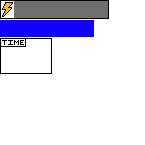
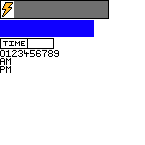
working time ui box

Changed region(s): [[0.0, 0.2483, 0.4138, 0.5241]]

diff --git a/core/src/com/tecchtitans/eng1/systems/UIRenderSystem.java b/core/src/com/tecchtitans/eng1/systems/UIRenderSystem.java
@@ -26,14 +26,13 @@ public class UIRenderSystem extends EntitySystem {
             UIComponent uiComponent = ComponentMappers.ui.get(entity);
             TextureComponent textureComponent = ComponentMappers.texture.get(entity);
             PositionComponent positionComponent = ComponentMappers.position.get(entity);
+            Texture texture = textureComponent.texture;
+
+            int renderWidth = textureComponent.width;
+            int renderHeight = textureComponent.height;
 
             if (uiComponent.type == UIComponentType.STATBAR) {
                 StatBarComponent statBarComponent = ComponentMappers.statBar.get(entity);
-
-                Texture texture = textureComponent.texture;
-                int renderWidth = textureComponent.width;
-                int renderHeight = textureComponent.height;
-
                 /*
                 float outerWidthRatio = renderWidth / (float)statBarComponent.outerPartSrcWidth;
                 float outerHeightRatio = renderHeight / (float)statBarComponent.outerPartSrcHeight;
@@ -89,6 +88,78 @@ public class UIRenderSystem extends EntitySystem {
 
                 // Draw inner bar
                 batch.draw(texture, renderLocationX + innerXOffset, renderLocationY + innerYOffset, innerRenderWidth, innerRenderHeight, innerSrcX, innerSrcY, innerSrcWidth, innerSrcHeight, false, false);
+            } else if (uiComponent.type == UIComponentType.TIME) {
+                UITimeComponent uiTimeComponent = ComponentMappers.time.get(entity);
+
+                int renderLocationX = (int)positionComponent.positionVector.x;
+                int renderLocationY = (int)positionComponent.positionVector.y;
+
+                int outerSrcX = uiTimeComponent.outerPartSrcX;
+                int outerSrcY = uiTimeComponent.outerPartSrcY;
+
+                int outerSrcWidth = uiTimeComponent.outerPartSrcWidth;
+                int outerSrcHeight = uiTimeComponent.outerPartSrcHeight;
+
+                // Draw outer part of bar.
+                batch.draw(texture, renderLocationX, renderLocationY, renderWidth, renderHeight, outerSrcX, outerSrcY, outerSrcWidth, outerSrcHeight, false, false);
+
+                int currentHour = uiTimeComponent.currentHour;
+                int hourFirstNum = currentHour / 10;
+                int hourSecondNum = currentHour % 10;
+
+                float totalWidthRatio = textureComponent.width / (float)outerSrcWidth;
+                float totalHeightRatio = textureComponent.height / (float)outerSrcHeight;
+
+                int numbersSrcWidth = uiTimeComponent.numbersSrcWidth;
+                int numbersSrcHeight = uiTimeComponent.numbersSrcHeight;
+
+                int firstNumberSrcX = uiTimeComponent.numbersSrcX + ((numbersSrcWidth + 1) * hourFirstNum);
+                int firstNumberSrcY = uiTimeComponent.numbersSrcY;
+
+                int numbersXOffset = Math.round(uiTimeComponent.numbersXOffset * totalWidthRatio);
+                int numbersYOffset = Math.round(uiTimeComponent.numbersYOffset * totalHeightRatio);
+
+                int numberRenderWidth = Math.round(numbersSrcWidth * totalWidthRatio);
+                int numberRenderHeight = Math.round(numbersSrcHeight * totalHeightRatio);
+
+                // Draw first number
+                batch.draw(texture, renderLocationX + numbersXOffset, renderLocationY + numbersYOffset, numberRenderWidth, numberRenderHeight, firstNumberSrcX, firstNumberSrcY, numbersSrcWidth, numbersSrcHeight, false, false);
+
+                int secondNumberSrcX = uiTimeComponent.numbersSrcX + ((numbersSrcWidth + 1) * hourSecondNum);
+                int secondNumberSrcY = uiTimeComponent.numbersSrcY;
+
+                int secondNumberXOffset = Math.round((uiTimeComponent.numbersXOffset + numbersSrcWidth + 1) * totalWidthRatio);
+
+                // Draw second number
+                batch.draw(texture, renderLocationX + secondNumberXOffset, renderLocationY + numbersYOffset, numberRenderWidth, numberRenderHeight, secondNumberSrcX, secondNumberSrcY, numbersSrcWidth, numbersSrcHeight, false, false);
+
+                int ampmXOffset = Math.round((uiTimeComponent.numbersXOffset + (numbersSrcWidth + 1) * 2) * totalWidthRatio);
+
+                if (currentHour < 12) {
+                    int amRenderWidth = Math.round(uiTimeComponent.amSrcWidth * totalWidthRatio);
+                    int amRenderHeight = Math.round(uiTimeComponent.amSrcHeight * totalHeightRatio);
+
+                    int amSrcX = uiTimeComponent.amSrcX;
+                    int amSrcY = uiTimeComponent.amSrcY;
+
+                    int amSrcWidth = uiTimeComponent.amSrcWidth;
+                    int amSrcHeight = uiTimeComponent.amSrcHeight;
+
+                    //Draw am
+                    batch.draw(texture, renderLocationX + ampmXOffset, renderLocationY + numbersYOffset, amRenderWidth, amRenderHeight, amSrcX, amSrcY, amSrcWidth, amSrcHeight, false, false);
+                } else {
+                    int pmRenderWidth = Math.round(uiTimeComponent.pmSrcWidth * totalWidthRatio);
+                    int pmRenderHeight = Math.round(uiTimeComponent.pmSrcHeight * totalHeightRatio);
+
+                    int pmSrcX = uiTimeComponent.pmSrcX;
+                    int pmSrcY = uiTimeComponent.pmSrcY;
+
+                    int pmSrcWidth = uiTimeComponent.pmSrcWidth;
+                    int pmSrcHeight = uiTimeComponent.pmSrcHeight;
+
+                    //Draw pm
+                    batch.draw(texture, renderLocationX + ampmXOffset, renderLocationY + numbersYOffset, pmRenderWidth, pmRenderHeight, pmSrcX, pmSrcY, pmSrcWidth, pmSrcHeight, false, false);
+                }
             }
         }
     }

diff --git a/core/src/com/tecchtitans/eng1/screens/PlayScreen.java b/core/src/com/tecchtitans/eng1/screens/PlayScreen.java
@@ -11,9 +11,11 @@ import com.tecchtitans.eng1.*;
 import com.tecchtitans.eng1.components.*;
 import com.badlogic.ashley.core.Entity;
 import com.tecchtitans.eng1.components.GameObjectComponent.ObjectType;
+import com.tecchtitans.eng1.systems.GameSystem;
 import com.tecchtitans.eng1.systems.PlayerCameraSystem;
 import com.tecchtitans.eng1.systems.PlayerMovementSystem;
 import com.tecchtitans.eng1.systems.UIRenderSystem;
+import sun.jvm.hotspot.debugger.cdbg.EnumType;
 
 import java.io.ObjectInput;
 import java.util.ArrayList;
@@ -30,6 +32,7 @@ public class PlayScreen implements Screen {
     ArrayList<Entity> buildings;
 
     Entity energyBar;
+    Entity timeUI;
 
     public PlayScreen(ENGGame game) {
         this.game = game;
@@ -59,10 +62,65 @@ public class PlayScreen implements Screen {
 
         game.getAudioManager().playMusic("audio/bgmusic.mp3");
 
-        energyBar = createStatBar();
+        energyBar = createStatBar(50, Gdx.graphics.getHeight() - 100, 150, 50);
+        timeUI = createUIClock(300, Gdx.graphics.getHeight() - 100, 150, 50);
     }
 
-    private Entity createStatBar() {
+    private Entity createUIClock(int renderX, int renderY, int width, int height) {
+        Entity clock = new Entity();
+
+        UIComponent uiComponent = engine.createComponent(UIComponent.class);
+        uiComponent.type = UIComponentType.TIME;
+        clock.add(uiComponent);
+
+        TextureComponent textureComponent = engine.createComponent(TextureComponent.class);
+        textureComponent.texture = new Texture("stats.png");
+        textureComponent.srcStartX = 0;
+        textureComponent.srcStartY = 38;
+        textureComponent.width = width;
+        textureComponent.height = height;
+        //textureComponent.width = 100;
+        //textureComponent.height = 100;
+        clock.add(textureComponent);
+
+        UITimeComponent uiTimeComponent = engine.createComponent(UITimeComponent.class);
+        uiTimeComponent.outerPartSrcX = 0;
+        uiTimeComponent.outerPartSrcY = 38;
+        uiTimeComponent.outerPartSrcWidth = 54;
+        uiTimeComponent.outerPartSrcHeight = 11;
+
+        uiTimeComponent.numbersSrcX = 0;
+        uiTimeComponent.numbersSrcY = 50;
+        uiTimeComponent.numbersSrcWidth = 5;
+        uiTimeComponent.numbersSrcHeight = 7;
+
+        uiTimeComponent.amSrcX = 0;
+        uiTimeComponent.amSrcY = 58;
+        uiTimeComponent.amSrcWidth = 11;
+        uiTimeComponent.amSrcHeight = 7;
+
+        uiTimeComponent.pmSrcX = 0;
+        uiTimeComponent.pmSrcY = 66;
+        uiTimeComponent.pmSrcWidth = 11;
+        uiTimeComponent.pmSrcHeight = 7;
+
+        uiTimeComponent.numbersXOffset = 29;
+        uiTimeComponent.numbersYOffset = 2;
+
+        uiTimeComponent.currentHour = 0;
+        clock.add(uiTimeComponent);
+
+        PositionComponent positionComponent = engine.createComponent(PositionComponent.class);
+        positionComponent.positionVector.x = renderX;
+        positionComponent.positionVector.y = renderY;
+        clock.add(positionComponent);
+
+        engine.addEntity(clock);
+
+        return clock;
+    }
+
+    private Entity createStatBar(int renderX, int renderY, int width, int height) {
         Entity statBar = new Entity();
 
         UIComponent uiComponent = engine.createComponent(UIComponent.class);
@@ -73,8 +131,8 @@ public class PlayScreen implements Screen {
         textureComponent.texture = new Texture("stats.png");
         textureComponent.srcStartX = 0;
         textureComponent.srcStartY = 0;
-        textureComponent.width = 300;
-        textureComponent.height = 50;
+        textureComponent.width = width;
+        textureComponent.height = height;
         statBar.add(textureComponent);
 
         StatBarComponent statBarComponent = engine.createComponent(StatBarComponent.class);
@@ -90,11 +148,13 @@ public class PlayScreen implements Screen {
 
         statBarComponent.innerPartXOffset = 14;
         statBarComponent.innerPartYOffset = 1;
+
+        statBarComponent.progress = 1;
         statBar.add(statBarComponent);
 
         PositionComponent positionComponent = engine.createComponent(PositionComponent.class);
-        positionComponent.positionVector.x = 50;
-        positionComponent.positionVector.y = Gdx.graphics.getHeight() - textureComponent.height - 50;
+        positionComponent.positionVector.x = renderX;
+        positionComponent.positionVector.y = renderY;
         statBar.add(positionComponent);
 
         engine.addEntity(statBar);
@@ -255,6 +315,8 @@ public class PlayScreen implements Screen {
 
 
         energyBar.getComponent(StatBarComponent.class).progress = player.getComponent(PlayerComponent.class).energy / 100f;
+
+        timeUI.getComponent(UITimeComponent.class).currentHour = engine.getSystem(GameSystem.class).getHour();
 
         //energyBar.getComponent(TextureComponent.class).width++;
         //energyBar.getComponent(TextureComponent.class).height++;

diff --git a/core/src/com/tecchtitans/eng1/components/UITimeComponent.java b/core/src/com/tecchtitans/eng1/components/UITimeComponent.java
@@ -1,0 +1,16 @@
+package com.tecchtitans.eng1.components;
+
+import com.badlogic.ashley.core.Component;
+
+public class UITimeComponent implements Component {
+    public int outerPartSrcX, outerPartSrcY;
+    public int outerPartSrcWidth, outerPartSrcHeight;
+    public int numbersSrcX, numbersSrcY;
+    public int numbersSrcWidth, numbersSrcHeight;
+    public int amSrcX, amSrcY;
+    public int amSrcWidth, amSrcHeight;
+    public int pmSrcX, pmSrcY;
+    public int pmSrcWidth, pmSrcHeight;
+    public int numbersXOffset, numbersYOffset;
+    public int currentHour = 0;
+}

diff --git a/core/src/com/tecchtitans/eng1/components/ComponentMappers.java b/core/src/com/tecchtitans/eng1/components/ComponentMappers.java
@@ -14,4 +14,5 @@ public class ComponentMappers {
     public static final ComponentMapper<TextureComponent> texture = ComponentMapper.getFor(TextureComponent.class);
     public static final ComponentMapper<UIComponent> ui = ComponentMapper.getFor(UIComponent.class);
     public static final ComponentMapper<StatBarComponent> statBar = ComponentMapper.getFor(StatBarComponent.class);
+    public static final ComponentMapper<UITimeComponent> time = ComponentMapper.getFor(UITimeComponent.class);
 }

diff --git a/core/src/com/tecchtitans/eng1/systems/GameSystem.java b/core/src/com/tecchtitans/eng1/systems/GameSystem.java
@@ -20,6 +20,10 @@ public class GameSystem extends EntitySystem {
         entities = engine.getEntitiesFor(Family.all(PlayerComponent.class).get());
     }
 
+    public int getHour() {
+        return hour;
+    }
+
     public void update(float deltaTime) {
         for (Entity entity : entities) {
             PlayerComponent playerComponent = ComponentMappers.player.get(entity);

diff --git a/core/src/com/tecchtitans/eng1/components/UIComponentType.java b/core/src/com/tecchtitans/eng1/components/UIComponentType.java
@@ -1,5 +1,5 @@
 package com.tecchtitans.eng1.components;
 
 public enum UIComponentType {
-    NULL, STATBAR
+    NULL, STATBAR, TIME
 }
